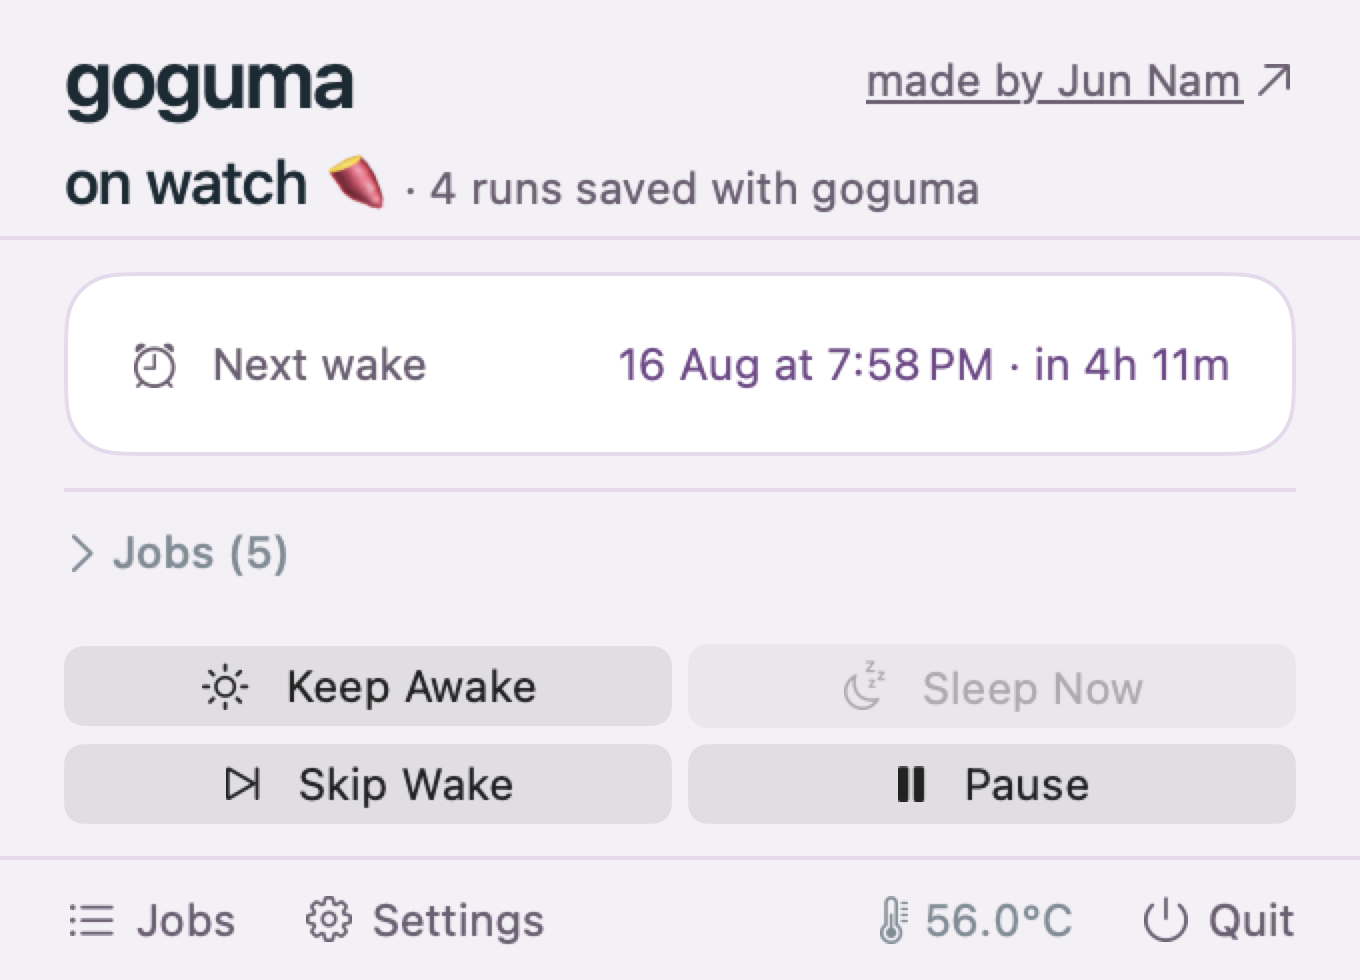
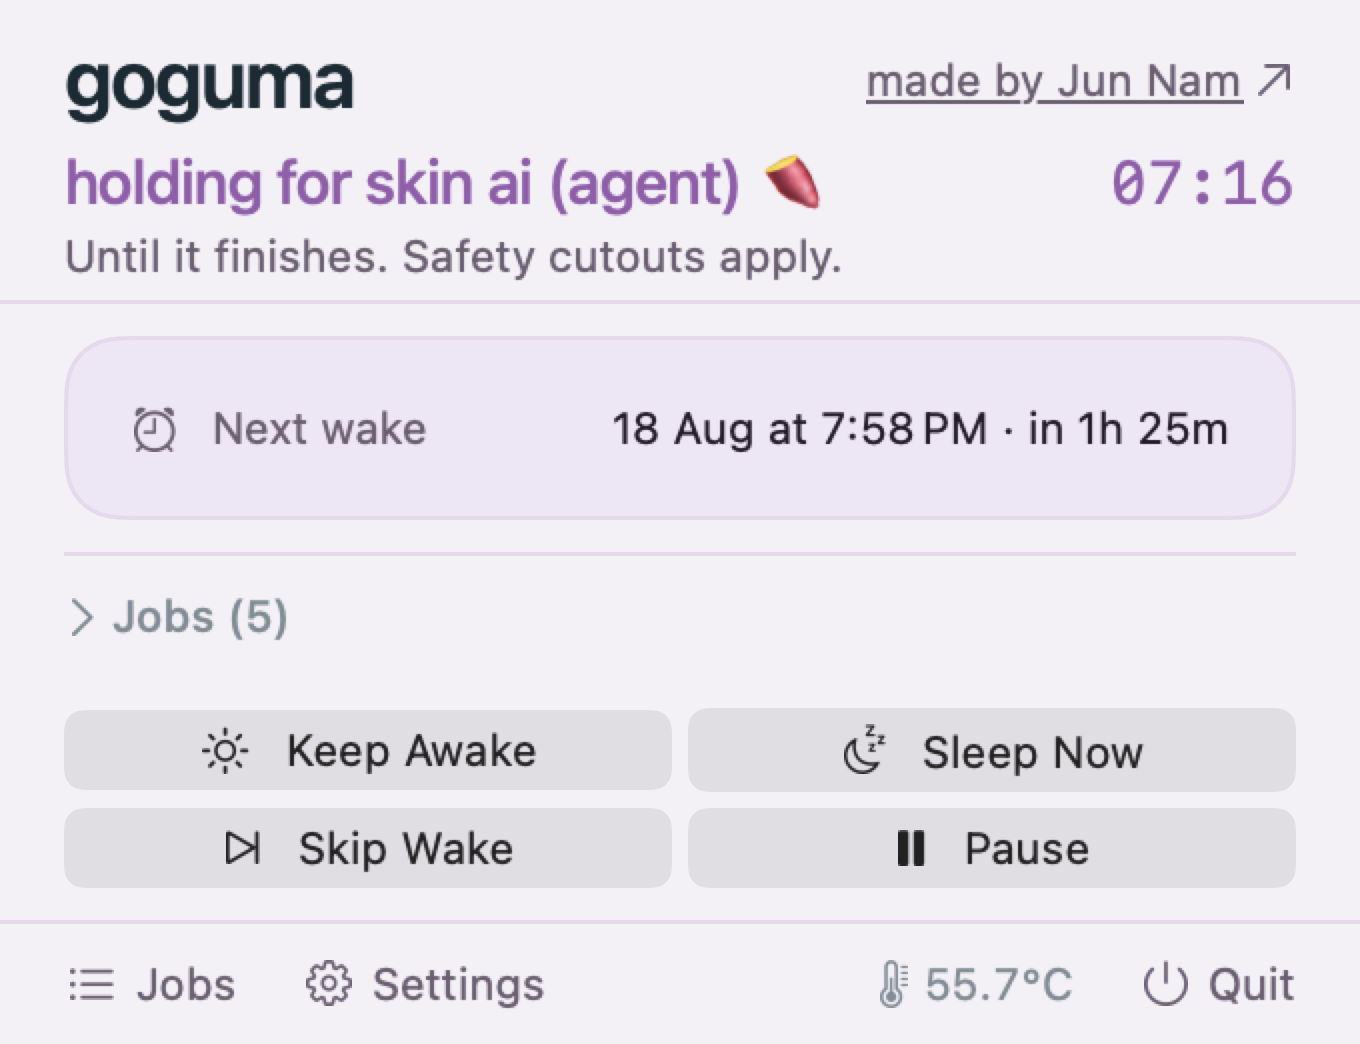
Bring the docs back in line with what the app does
A sweep after the last few changes, and it turned up one that mattered more than
the rest.

**The release page told people they needed macOS 26.** Package.swift was moved
from .v26 to .v14 deliberately, with a note saying .v26 "locked the app to Macs
updated in the last few months for no reason anyone had checked". The release
template and the app's own README kept saying 26 afterwards, and the release page
is exactly where somebody decides whether goguma runs on their machine at all. A
test now reads the platform out of the manifest, which is the only statement of
it the compiler enforces, and fails when any doc disagrees.

**The screenshots showed a version of the app that no longer exists.** All three
were captured before the holding colour, the card fill and the tabs changed.
Rendered again from the fixture daemon rather than from a real machine, so they
carry no real job names. safety.png needed cropping by hand-derived pixel
coordinates when it was a slice out of a 2368pt column; it is a tab now, so the
picture is the whole render, and macos/README says that instead of the old
arithmetic.

**Architecture had the run holds but not the agents.** The keyed holds, the
per-harness config shapes, why the lease is fifteen minutes rather than ninety
seconds, and why the daemon reconciles the setting rather than the installer
applying it once.

Also: the repository description and the release notes now mention the work with
[…]

diff --git a/internal/cli/docs_test.go b/internal/cli/docs_test.go
@@ -519,3 +519,38 @@ func TestReservedHoldIdsMatchBetweenGoAndSwift(t *testing.T) {
 		}
 	}
 }
+
+// The minimum macOS version is the same everywhere it is stated.
+//
+// Package.swift is the authority: Swift's availability checker enforces it, and
+// nothing else here does. Every other mention is prose, and prose drifts. This
+// one drifted a long way. The manifest was moved from .v26 to .v14 deliberately,
+// with a note saying .v26 "locked the app to Macs updated in the last few months
+// for no reason anyone had checked" — and the release template and the app's own
+// README went on saying 26 afterwards. The release page is where somebody
+// decides whether goguma runs on their machine at all, so that stale line was
+// turning away most of the Macs in use.
+func TestMinimumMacOSVersionAgreesEverywhere(t *testing.T) {
+	root := repoRoot(t)
+
+	manifest := readDoc(t, root, "macos/Package.swift")
+	m := regexp.MustCompile(`\.macOS\(\.v(\d+)\)`).FindStringSubmatch(manifest)
+	if m == nil {
+		t.Fatal("Package.swift no longer declares a .macOS(.vNN) platform")
+	}
+	want := m[1]
+
+	// Any "macOS <number>" in a doc must be the version from the manifest. The
+	// toolchain lines name Xcode and Swift rather than macOS, so they do not
+	// collide with this.
+	pattern := regexp.MustCompile(`macOS (\d+)(?:\.\d+)?\+?`)
+	for _, f := range []string{"README.md", "macos/README.md", ".goreleaser.yaml", "SECURITY.md"} {
+		for _, hit := range pattern.FindAllStringSubmatch(readDoc(t, root, f), -1) {
+			if hit[1] != want {
+				t.Errorf("%s says %q, but macos/Package.swift targets macOS %s.\n"+
+					"The manifest is the authority: it is what the compiler enforces.",
+					f, hit[0], want)
+			}
+		}
+	}
+}

diff --git a/macos/README.md b/macos/README.md
@@ -15,8 +15,11 @@ daemon; this is a viewer with buttons.
 
 ## Requirements
 
-- macOS 26.0 or later
-- Swift 6.3 / Xcode 26 toolchain
+- macOS 14 (Sonoma) or later to run it. `Package.swift` is the authority and
+  says `.macOS(.v14)`; this file said 26 for a while after that changed, which
+  is a good deal of the audience turned away by a stale line in a README
+- Swift 6.2 tools / Xcode 26 toolchain to build it, which is a different
+  question from what it runs on
 - The goguma daemon (optional: the app renders a clear "not running" state
   in every window when the daemon is absent)
 
@@ -84,15 +87,16 @@ rather than a fixture. That is the point, and it is also the catch: check what
 is in the picture before committing it. `SurfaceRenderer.swift` explains why
 this isn't `ImageRenderer`.
 
-`Docs/media/safety.png` is the Safety block of the settings surface, cropped
-out of a full `--render settings` and padded at the foot. The renderer emits
-the whole pane, which is 2368px tall and far too much for one paragraph in a
-README, and the section is bounded by divider rules that look like a bad cut if
-the crop lands on one. The rule below Safety starts at y=1486 and the heading
-at y=1095, so the crop runs 1061 to 1483 and then gains 26 rows of the pane's
-own background at the bottom: the layout leaves only 45px under the last
-slider against 34px above the heading, which reads as bottom-heavy, and the
-background is a single flat colour so the join is invisible.
+`Docs/media/safety.png` is a plain `--render settings` with the Safety tab
+selected, and needs no cropping.
+
+It used to need a great deal. The pane was one column of every setting goguma
+has, 2368px tall, so the picture had to be cut out of the middle of it by pixel
+coordinates that were re-derived by hand every time a row above it moved. Tabs
+made the section it wants the whole of what gets rendered.
+
+The tab is `@AppStorage`, so the renderer draws whichever was last opened. To
+capture a different one, change `tabRaw`'s default before building.
 
 For the jobs window that default is wrong twice over, so there is
 `Docs/media/demo-daemon.py`:
@@ -143,7 +147,7 @@ There are also two token-backed view modifiers (`themeCard()`, `themeRow()`,
 
 ```
 macos/
-├── Package.swift                 SwiftPM manifest (tools 6.2, Swift 6 mode, macOS 26)
+├── Package.swift                 SwiftPM manifest (tools 6.2, Swift 6 mode, macOS 14)
 ├── README.md
 ├── scripts/make-app.sh           Assembles build/goguma.app around the binary
 └── Sources/GogumaUI/
@@ -311,6 +315,16 @@ while holding; next wake and countdown; lid / power / battery / CPU temperature;
 daemon warnings, prominently; a compact job list with enable toggles (click a row
 for its history); and Skip next wake, Let it sleep now, Pause/Resume, Jobs,
 Settings, Quit.
+
+**Settings is tabbed.** Five groups, one on screen at a time, selected by a
+drawn bar rather than a `Picker(.segmented)`: the segmented control brings
+AppKit's greys and radii, and one control in the system palette on goguma's
+surface reads as part of a different application. The pane was a single column
+of everything until it reached 1266pt against roughly 1000pt of laptop, at which
+point its bottom could not be reached at all. It measures its own height, which
+is cheap now that a tab is a few hundred points; it was not when the measurement
+covered every setting at once, and that is what made the window appear slowly
+and then jump.
 
 **One main window, two pages.** Jobs and Settings are the same `NSWindow`,
 swapped by `WindowCoordinator.retarget(_:to:)` rather than opened as two. They

diff --git a/Docs/ARCHITECTURE.md b/Docs/ARCHITECTURE.md
@@ -343,6 +343,44 @@ evidence about. Keeping them out of sleep-back is right for a second reason: a
 wrapped command is user-initiated, so finishing one is never a reason to put the
 machine to sleep.
 
+### Coding agents
+
+An agent inside an editor is the case `goguma run` cannot reach: there is no
+command to wrap, because the editor started it. It cannot be watched either, for
+the reason above, so it has to report itself, and every current harness can. All
+of them run shell commands at their own lifecycle events.
+
+goguma writes one command into each agent's own configuration, on its prompt,
+tool-use and stop events. The shapes differ (`~/.claude/settings.json` and
+`~/.codex/hooks.json` nest handlers under a matcher block, `~/.cursor/hooks.json`
+takes a flat array beside a `version`), so `internal/agenthooks` holds one
+description per harness and merges rather than writes: entries carrying goguma's
+marker are replaced, everything else is left in place and in order. A file that
+does not parse is refused rather than replaced, and every write is backed up and
+rolled back if the result does not verify.
+
+**Holds are keyed by session.** `RunStartReq.Key` opens or renews rather than
+opening afresh, so the same session reporting on every prompt and every tool call
+lands on the hold it already has instead of stacking up holds nothing will close.
+Two editors open therefore hold independently, and the one that finishes first
+releases only its own.
+
+**Stopping is what stops it, not a timer.** The stop event releases immediately.
+The lease is the backstop for a harness killed outright, and it is fifteen
+minutes rather than the ninety seconds `goguma run` uses: a wrapper renews on a
+timer it controls, while an agent renews on events it does not, and a model can
+think for minutes between tool calls with nothing happening locally. An event
+goguma does not recognise renews rather than releases, because harnesses add
+events and being wrong that way holds a working machine awake rather than
+sleeping it mid-run.
+
+**The daemon keeps it true, rather than the installer doing it once.** `agent_hooks`
+is a setting, on by default, reconciled on every daemon start and whenever it
+changes. An agent installed a month after goguma is set up without anyone
+remembering to; turning the setting off takes the configuration back out of every
+agent it was added to, which is what lets the switch live in the app's settings,
+since that sets config over IPC and never runs the CLI.
+
 ---
 
 ## 6. Duration estimation
